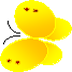
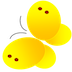
スタート画面の結合

diff --git a/Mushitori/HTMStartViewController.m b/Mushitori/HTMStartViewController.m
@@ -14,13 +14,50 @@
 - (void)viewDidLoad
 {
     [super viewDidLoad];
-	// Do any additional setup after loading the view, typically from a nib.
+
+    // 蝶のアニメーションのオプション
+    UIViewAnimationOptions animeOptions =
+    UIViewAnimationOptionCurveEaseInOut // イーズインアウト
+    | UIViewAnimationOptionAutoreverse // 自動逆再生
+    | UIViewAnimationOptionRepeat ; // 繰り返し
+    // 蝶のアニメーションの開始
+    [UIView animateWithDuration:1.5 // アニメの秒数
+                          delay:0.0 // 開始待ち秒数
+                        options:animeOptions
+                     animations:^{
+                         // 2倍サイズになる
+                         _cyo.transform = CGAffineTransformMakeScale(0.5, 0.5);
+                         // π/4回転する
+                         _cyo.transform = CGAffineTransformMakeRotation(M_PI_2);
+                     }
+                     completion:nil];
+
 }
 
 - (void)didReceiveMemoryWarning
 {
     [super didReceiveMemoryWarning];
     // Dispose of any resources that can be recreated.
+}
+
+- (void)viewDidAppear:(BOOL)animated
+{
+    // 座標はviewDidAppear以降でなければ取得できない
+    CGFloat cx = _kaeru.center.x;
+    CGFloat cy = _kaeru.center.y;
+    // アニメーションのオプション
+    UIViewAnimationOptions animeOptions =
+    UIViewAnimationOptionCurveEaseInOut // イーズインアウト
+    | UIViewAnimationOptionAutoreverse // 自動逆再生
+    | UIViewAnimationOptionRepeat ; // 繰り返し
+    // アニメーションの開始
+    [UIView animateWithDuration:1.0 // アニメの秒数
+                          delay:0.0 // 開始待ち秒数
+                        options:animeOptions
+                     animations:^{
+                         _kaeru.center = CGPointMake(cx, cy-50); // 上下運動
+                     }
+                     completion:nil];
 }
 
 @end

diff --git a/Mushitori/HTMStartViewController.h b/Mushitori/HTMStartViewController.h
@@ -9,5 +9,7 @@
 #import <UIKit/UIKit.h>
 
 @interface HTMStartViewController : UIViewController
+@property (weak, nonatomic) IBOutlet UIImageView *cyo;
+@property (weak, nonatomic) IBOutlet UIImageView *kaeru;
 
 @end
